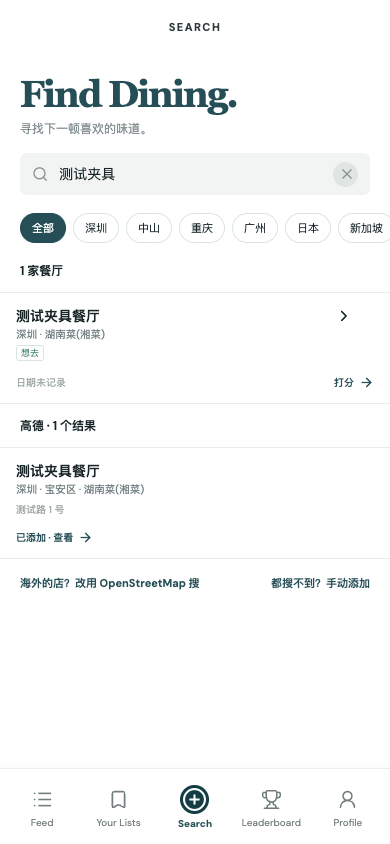
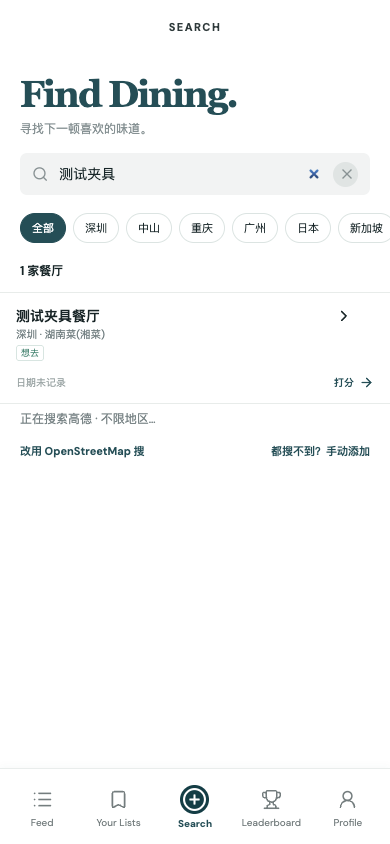
feat: search restaurant providers as you type

diff --git a/src/components/AddPlace.tsx b/src/components/AddPlace.tsx
@@ -1,5 +1,5 @@
-import { useMemo, useState } from 'react';
-import { ArrowRight, ChevronRight, CirclePlus, MapPin } from 'lucide-react';
+import { useEffect, useMemo, useRef, useState } from 'react';
+import { CirclePlus } from 'lucide-react';
 import { isOverseasRegion, regionCountry, regionName, type PlaceRecord, type Restaurant } from '../data/restaurants';
 import { amapConfigured, searchPlaces } from '../lib/amap';
 import { searchOsmPlaces } from '../lib/osm';
@@ -8,13 +8,14 @@ type Provider = 'amap' | 'osm';
 const providerLabel: Record<Provider, string> = { amap: '高德', osm: 'OpenStreetMap' };
 
 /** Adds restaurants that are not in the catalogue: AMap for mainland China, OpenStreetMap abroad, or typed in. */
-export function AddPlace({ query, searchCity, catalog, onAdd, onOpen }: { query: string; searchCity: string; catalog: Restaurant[]; onAdd: (place: PlaceRecord) => void; onOpen: (restaurant: Restaurant) => void }) {
+export function AddPlace({ query, searchCity, catalog, onAdd }: { query: string; searchCity: string; catalog: Restaurant[]; onAdd: (place: PlaceRecord) => void }) {
   const keyword = query.trim();
   const overseas = isOverseasRegion(searchCity);
   const primary: Provider = overseas || !amapConfigured ? 'osm' : 'amap';
   const alternate: Provider | null = primary === 'amap' ? 'osm' : amapConfigured && searchCity === 'all' ? 'amap' : null;
   const scope = searchCity === 'all' ? '不限地区' : regionName(searchCity);
   const known = useMemo(() => new Map(catalog.map(r => [r.id, r])), [catalog]);
+  const knownNames = useMemo(() => new Set(catalog.map(r => `${normalizeName(r.displayName)}|${normalizeName(r.actualCity)}`)), [catalog]);
   // OSM ranking bias: the centre of the catalogue's restaurants in the chosen region.
   const near = useMemo(() => {
     const points = catalog.filter(r => r.regionSlug === searchCity && r.mapLng !== null && r.mapLat !== null);
@@ -23,16 +24,33 @@ export function AddPlace({ query, searchCity, catalog, onAdd, onOpen }: { query:
   const searchKey = `${searchCity}|${keyword}`;
   const [found, setFound] = useState<{ key: string; provider: Provider; loading: boolean; results: PlaceRecord[]; error: string } | null>(null);
   const [manual, setManual] = useState<{ name: string; city: string; address: string; country: string } | null>(null);
+  const requestId = useRef(0);
 
   const run = (provider: Provider) => {
     if (!keyword) return;
     const key = searchKey;
+    const id = ++requestId.current;
     setFound({ key, provider, loading: true, results: [], error: '' });
     const request = provider === 'amap' ? searchPlaces(keyword, searchCity === 'all' ? undefined : regionName(searchCity)) : searchOsmPlaces(keyword, near, regionCountry(searchCity));
     request
-      .then(results => setFound(current => current?.key === key && current.provider === provider ? { ...current, loading: false, results } : current))
-      .catch((error: unknown) => setFound(current => current?.key === key && current.provider === provider ? { ...current, loading: false, error: error instanceof Error ? error.message : '搜索失败' } : current));
+      .then(results => { if (requestId.current === id) setFound(current => current?.key === key && current.provider === provider ? { ...current, loading: false, results } : current); })
+      .catch((error: unknown) => { if (requestId.current === id) setFound(current => current?.key === key && current.provider === provider ? { ...current, loading: false, error: error instanceof Error ? error.message : '搜索失败' } : current); });
   };
+
+  useEffect(() => {
+    const chars = Array.from(keyword).length;
+    const id = ++requestId.current;
+    if (!keyword) { setFound(null); return; }
+    if (chars < 2) { setFound({ key: searchKey, provider: primary, loading: false, results: [], error: '再输入一个字开始搜索' }); return; }
+    setFound({ key: searchKey, provider: primary, loading: true, results: [], error: '' });
+    const timer = window.setTimeout(() => {
+      const request = primary === 'amap' ? searchPlaces(keyword, searchCity === 'all' ? undefined : regionName(searchCity)) : searchOsmPlaces(keyword, near, regionCountry(searchCity));
+      request
+        .then(results => { if (requestId.current === id) setFound(current => current?.key === searchKey && current.provider === primary ? { ...current, loading: false, results } : current); })
+        .catch((error: unknown) => { if (requestId.current === id) setFound(current => current?.key === searchKey && current.provider === primary ? { ...current, loading: false, error: error instanceof Error ? error.message : '搜索失败' } : current); });
+    }, 450);
+    return () => window.clearTimeout(timer);
+  }, [keyword, searchCity, primary, near, searchKey]);
   const addManual = () => {
     if (!manual?.name.trim() || !manual.city.trim()) return;
     onAdd({ id: `manual:${crypto.randomUUID().replaceAll('-', '').slice(0, 24)}`, source: 'manual', poiId: '', name: manual.name.trim().slice(0, 120),
@@ -41,22 +59,20 @@ export function AddPlace({ query, searchCity, catalog, onAdd, onOpen }: { query:
 
   if (!keyword) return null;
   const state = found?.key === searchKey ? found : null;
-  return <section className="add-place" aria-label="添加新餐厅">
-    {!state ? <button className="add-place-trigger" onClick={() => run(primary)}><MapPin size={16} /><span>没找到？在{providerLabel[primary]}搜索「{keyword}」<small>{scope} · 只搜餐饮</small></span><ChevronRight size={16} /></button>
-      : state.loading ? <p className="add-place-status">正在搜索{providerLabel[state.provider]}…</p>
+  return <section className="add-place" aria-label="餐厅搜索结果">
+    {!state ? <p className="add-place-status">输入店名，自动搜索{providerLabel[primary]} · {scope}</p>
+      : state.loading ? <p className="add-place-status">正在搜索{providerLabel[state.provider]} · {scope}…</p>
+      : state.error === '再输入一个字开始搜索' ? <p className="add-place-status">{state.error}</p>
       : state.error ? <p className="add-place-status error">{state.error} <button onClick={() => run(state.provider)}>重试</button></p>
-      : !state.results.length ? <p className="add-place-status">{providerLabel[state.provider]}也没有找到匹配的餐厅。</p>
+      : !state.results.some(place => !known.has(place.id) && !knownNames.has(`${normalizeName(place.name)}|${normalizeName(place.city)}`)) ? <p className="add-place-status">没有找到新的餐厅；已收录的匹配项显示在上方。</p>
       : <>
-        <div className="search-results-title"><strong>{providerLabel[state.provider]} · {state.results.length} 个结果</strong></div>
-        <div className="restaurant-list">{state.results.map(place => {
-          const existing = known.get(place.id);
-          return <article key={place.id} className="restaurant-row place-row"><div className="row-main"><span className="row-text"><strong>{place.name}</strong><span className="info-line">{[place.city.replace(/市$/, ''), place.district, place.type.split(';').at(-1)].filter(Boolean).join(' · ')}</span>{place.address && <small className="place-address">{place.address}</small>}</span></div>
-            <div className="row-actions">{existing ? <button onClick={() => onOpen(existing)}>已添加 · 查看 <ArrowRight size={15} /></button> : <button onClick={() => onAdd(place)}>添加这家 <CirclePlus size={15} /></button>}</div></article>;
-        })}</div>
+        <div className="search-results-title"><strong>{providerLabel[state.provider]} · {state.results.filter(place => !known.has(place.id) && !knownNames.has(`${normalizeName(place.name)}|${normalizeName(place.city)}`)).length} 个结果</strong></div>
+        <div className="restaurant-list">{state.results.filter(place => !known.has(place.id) && !knownNames.has(`${normalizeName(place.name)}|${normalizeName(place.city)}`)).map(place => <article key={place.id} className="restaurant-row place-row"><div className="row-main"><span className="row-text"><strong>{place.name}</strong><span className="info-line">{[place.city.replace(/市$/, ''), place.district, place.type.split(';').at(-1)].filter(Boolean).join(' · ')}</span>{place.address && <small className="place-address">{place.address}</small>}</span></div>
+            <div className="row-actions"><button onClick={() => onAdd(place)}>添加这家 <CirclePlus size={15} /></button></div></article>)}</div>
         {state.provider === 'osm' && <p className="place-credit">数据 © <a href="https://www.openstreetmap.org/copyright" target="_blank" rel="noopener noreferrer">OpenStreetMap 贡献者</a> · 搜索 Photon</p>}
       </>}
     <div className="add-place-links">
-      {alternate && <button onClick={() => run(alternate)}>{alternate === 'osm' ? '海外的店？改用 OpenStreetMap 搜' : '国内的店？改用高德搜'}</button>}
+      {alternate && <button onClick={() => run(alternate)}>{alternate === 'osm' ? '改用 OpenStreetMap 搜' : '改用高德搜索'}</button>}
       {!manual && <button onClick={() => setManual({ name: keyword, city: searchCity === 'all' ? '' : regionName(searchCity), address: '', country: regionCountry(searchCity) || (searchCity === 'all' ? '' : 'CN') })}>都搜不到？手动添加</button>}
     </div>
     {manual && <form className="add-place-form" onSubmit={event => { event.preventDefault(); addManual(); }}>
@@ -69,3 +85,5 @@ export function AddPlace({ query, searchCity, catalog, onAdd, onOpen }: { query:
     </form>}
   </section>;
 }
+
+function normalizeName(value: string) { return value.toLocaleLowerCase().replace(/[\s·・,，.。()（）\-—]/g, '').replace(/[市区县]$/, ''); }

diff --git a/src/App.tsx b/src/App.tsx
@@ -251,7 +251,7 @@ function FeedPage({ catalog, sharing, food, getStatus, onOpen, onSearch, onList,
 function SearchPage({ catalog, onAddPlace, query, onQuery, onOpen, getStatus, getScore, onRate }: { catalog: Restaurant[]; onAddPlace: (place: PlaceRecord) => void; query: string; onQuery: (q: string) => void; onOpen: (r: Restaurant) => void; getStatus: (id: string) => FoodStatus; getScore: (id: string) => number | null; onRate: (r: Restaurant) => void }) {
   const [searchCity, setSearchCity] = useState('all');
   const matches = useMemo(() => catalog.filter(r => (searchCity === 'all' || r.regionSlug === searchCity) && (!query.trim() || `${r.searchText} ${r.reviewText.toLocaleLowerCase()}`.includes(query.trim().toLocaleLowerCase()))).sort((a, b) => (a.closed === b.closed ? 0 : a.closed ? 1 : -1) || a.displayName.localeCompare(b.displayName, 'zh-CN')), [catalog, query, searchCity]);
-  const addPlace = <AddPlace query={query} searchCity={searchCity} catalog={catalog} onAdd={onAddPlace} onOpen={onOpen} />;
+  const addPlace = <AddPlace query={query} searchCity={searchCity} catalog={catalog} onAdd={onAddPlace} />;
   return <><TopBar title={<span className="eyebrow">SEARCH</span>} /><div className="search-page-head"><h1>Find Dining.</h1><p>寻找下一顿喜欢的味道。</p></div><label className="search-field"><Search size={20} /><input autoFocus type="search" placeholder="店名、菜系、菜品、地区" value={query} onChange={e => onQuery(e.target.value)} />{query && <button onClick={() => onQuery('')} aria-label="清除搜索"><X size={16} /></button>}</label><div className="city-scroll"><button className={searchCity === 'all' ? 'active' : ''} onClick={() => setSearchCity('all')}>全部</button>{regions.map(r => <button className={searchCity === r.slug ? 'active' : ''} key={r.slug} onClick={() => setSearchCity(r.slug)}>{r.name}</button>)}</div><div className="search-results-title"><strong>{matches.length} 家餐厅</strong></div>{matches.length ? <div className="restaurant-list">{matches.map(r => <article key={r.id} className="restaurant-row search-row"><button className="row-main" onClick={() => onOpen(r)}><span className="row-text"><strong>{r.displayName}</strong><InfoLine r={r} /><span className="row-tags"><span>{getStatus(r.id) === 'been' ? '去过' : getStatus(r.id) === 'want' ? '想去' : '未记录'}</span>{r.closed && <span>已停业</span>}</span></span>{getScore(r.id) !== null ? <b className="score-badge">{getScore(r.id)!.toFixed(1)}</b> : <ChevronRight size={18} />}</button><div className="row-actions"><span>{formattedVisitDate(r) || "日期未记录"}</span><button onClick={() => onRate(r)}>打分 <ArrowRight size={15} /></button></div></article>)}</div> : <div className="empty-state"><Search size={28} /><h3>没有找到匹配餐厅</h3><p>{query.trim() ? '可以在下方搜索并添加这家店。' : '试试其他店名或菜系。'}</p></div>}{addPlace}</>;
 }
 
